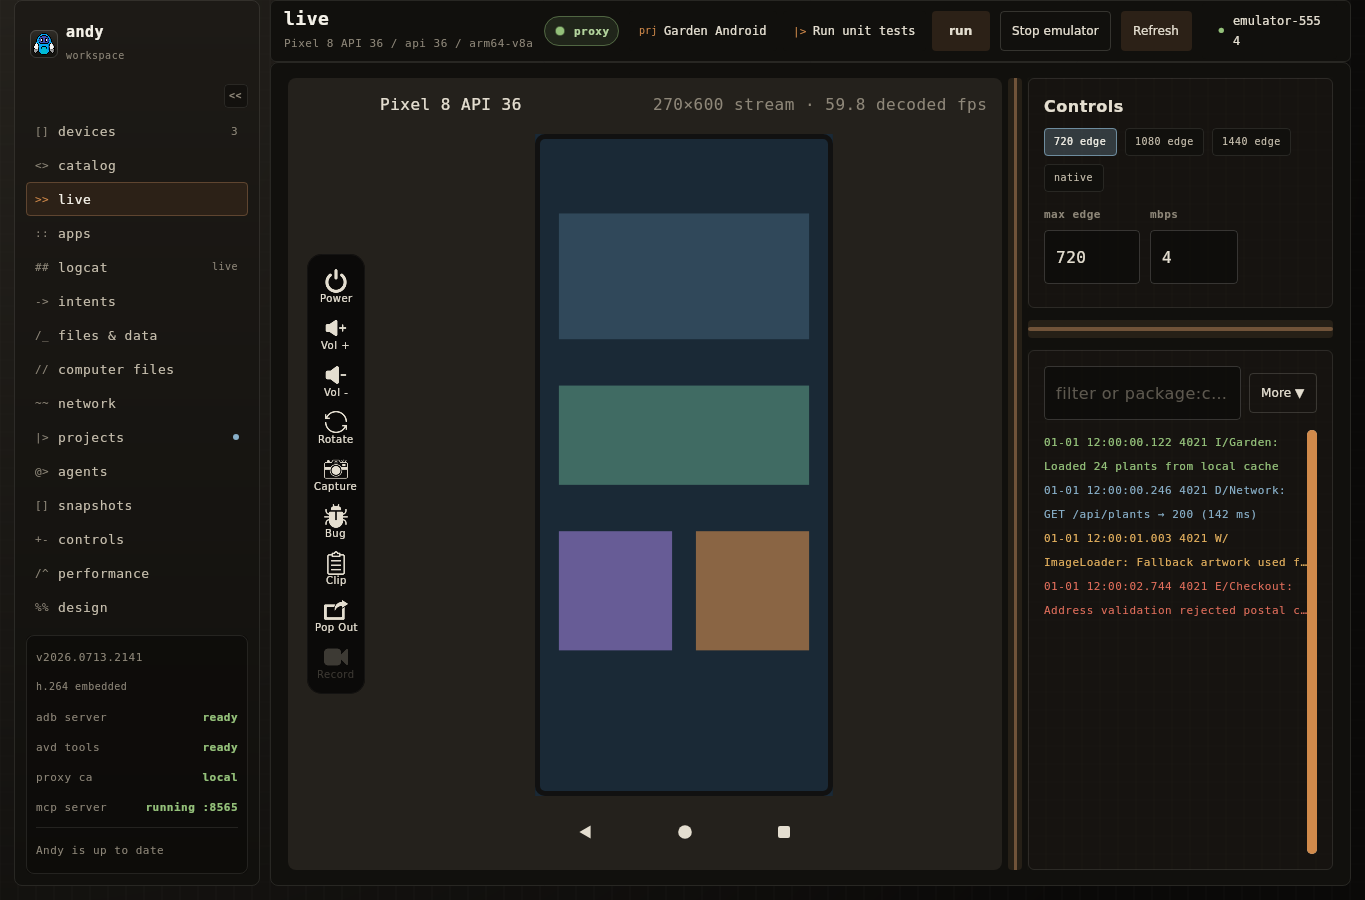
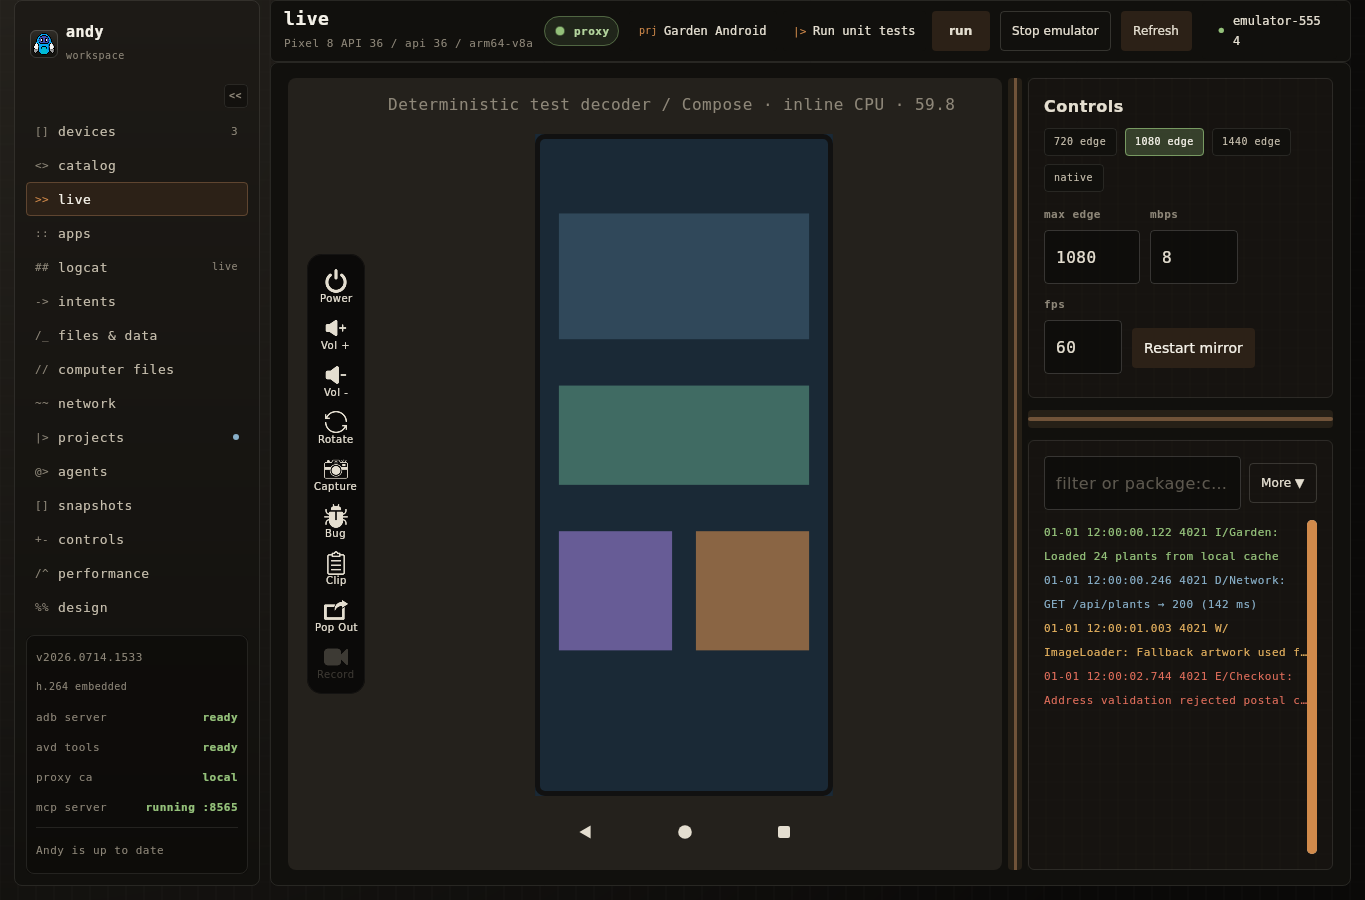
Fix cross-platform mirror checks
Use a JVM checksum, clean up failed native presentation startup, and align tests and baselines with the accelerated mirror UI.

diff --git a/src/desktopMain/kotlin/app/andy/desktop/service/mirror/DesktopMirrorEngine.kt b/src/desktopMain/kotlin/app/andy/desktop/service/mirror/DesktopMirrorEngine.kt
@@ -296,7 +296,11 @@ class DesktopMirrorEngine(
         }
         if (!useNativeRenderer) publishLegacySession(serial, config, fallbackReason = fallbackReason)
         val scrcpyServer = ScrcpyServerLocator.find()
-            ?: return CommandResult.failure("Andy’s bundled scrcpy server is missing. Reinstall Andy or set SCRCPY_SERVER_PATH for local protocol development.")
+            ?: run {
+                NativeMirrorJni.destroyPresentation()
+                nativeHost = null
+                return CommandResult.failure("Andy’s bundled scrcpy server is missing. Reinstall Andy or set SCRCPY_SERVER_PATH for local protocol development.")
+            }
         status.value = legacyStatus("Starting scrcpy-server raw H.264 mirror for $serial (${config.maxSize}px, ${config.bitRate / 1_000_000.0} Mbps)")
         videoJob = kotlinx.coroutines.CoroutineScope(Dispatchers.IO).launch {
             runNativeVideoLoop(adb, serial, scrcpyServer, config)

diff --git a/src/desktopTest/kotlin/app/andy/desktop/service/mirror/NativeMirrorComposeHostTest.kt b/src/desktopTest/kotlin/app/andy/desktop/service/mirror/NativeMirrorComposeHostTest.kt
@@ -11,6 +11,7 @@ import javax.swing.SwingUtilities
 import kotlin.test.Test
 import kotlin.test.assertNotNull
 import kotlin.test.assertTrue
+import kotlinx.coroutines.flow.flowOf
 
 /** Proves the production Compose -> SwingPanel -> inline Metal host chain. */
 class NativeMirrorComposeHostTest {
@@ -25,7 +26,7 @@ class NativeMirrorComposeHostTest {
             val compose = ComposePanel().apply {
                 setContent {
                     MirrorVideoSurface(
-                        frame = MirrorFrame(2, 2, intArrayOf(0xff000000.toInt(), 0xff000000.toInt(), 0xff000000.toInt(), 0xff000000.toInt())),
+                        frames = flowOf(MirrorFrame(2, 2, intArrayOf(0xff000000.toInt(), 0xff000000.toInt(), 0xff000000.toInt(), 0xff000000.toInt()))),
                         modifier = Modifier.fillMaxSize(),
                     )
                 }